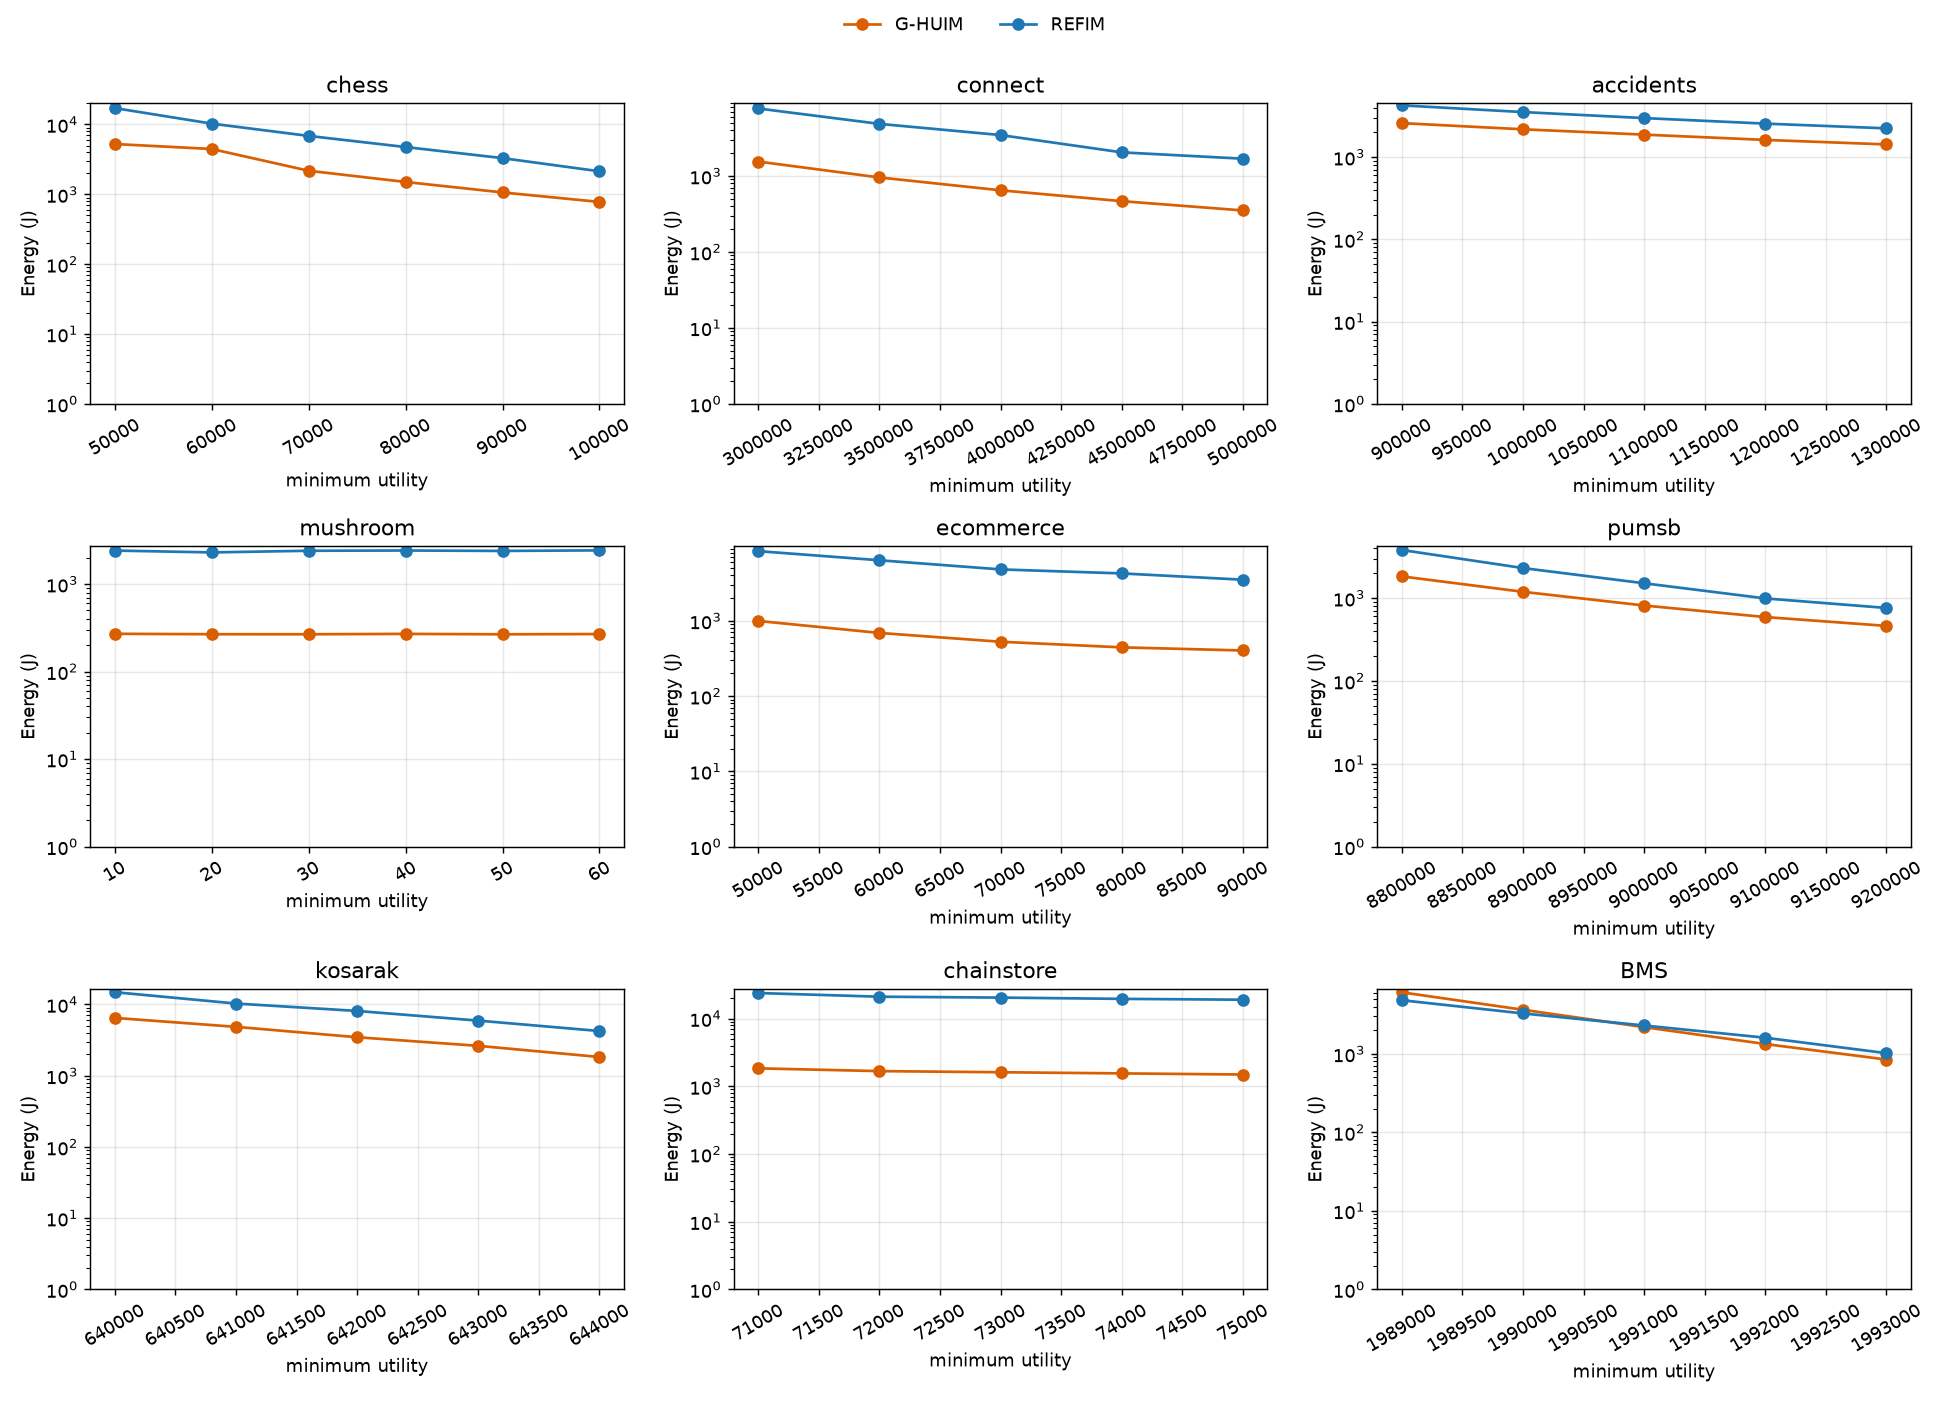
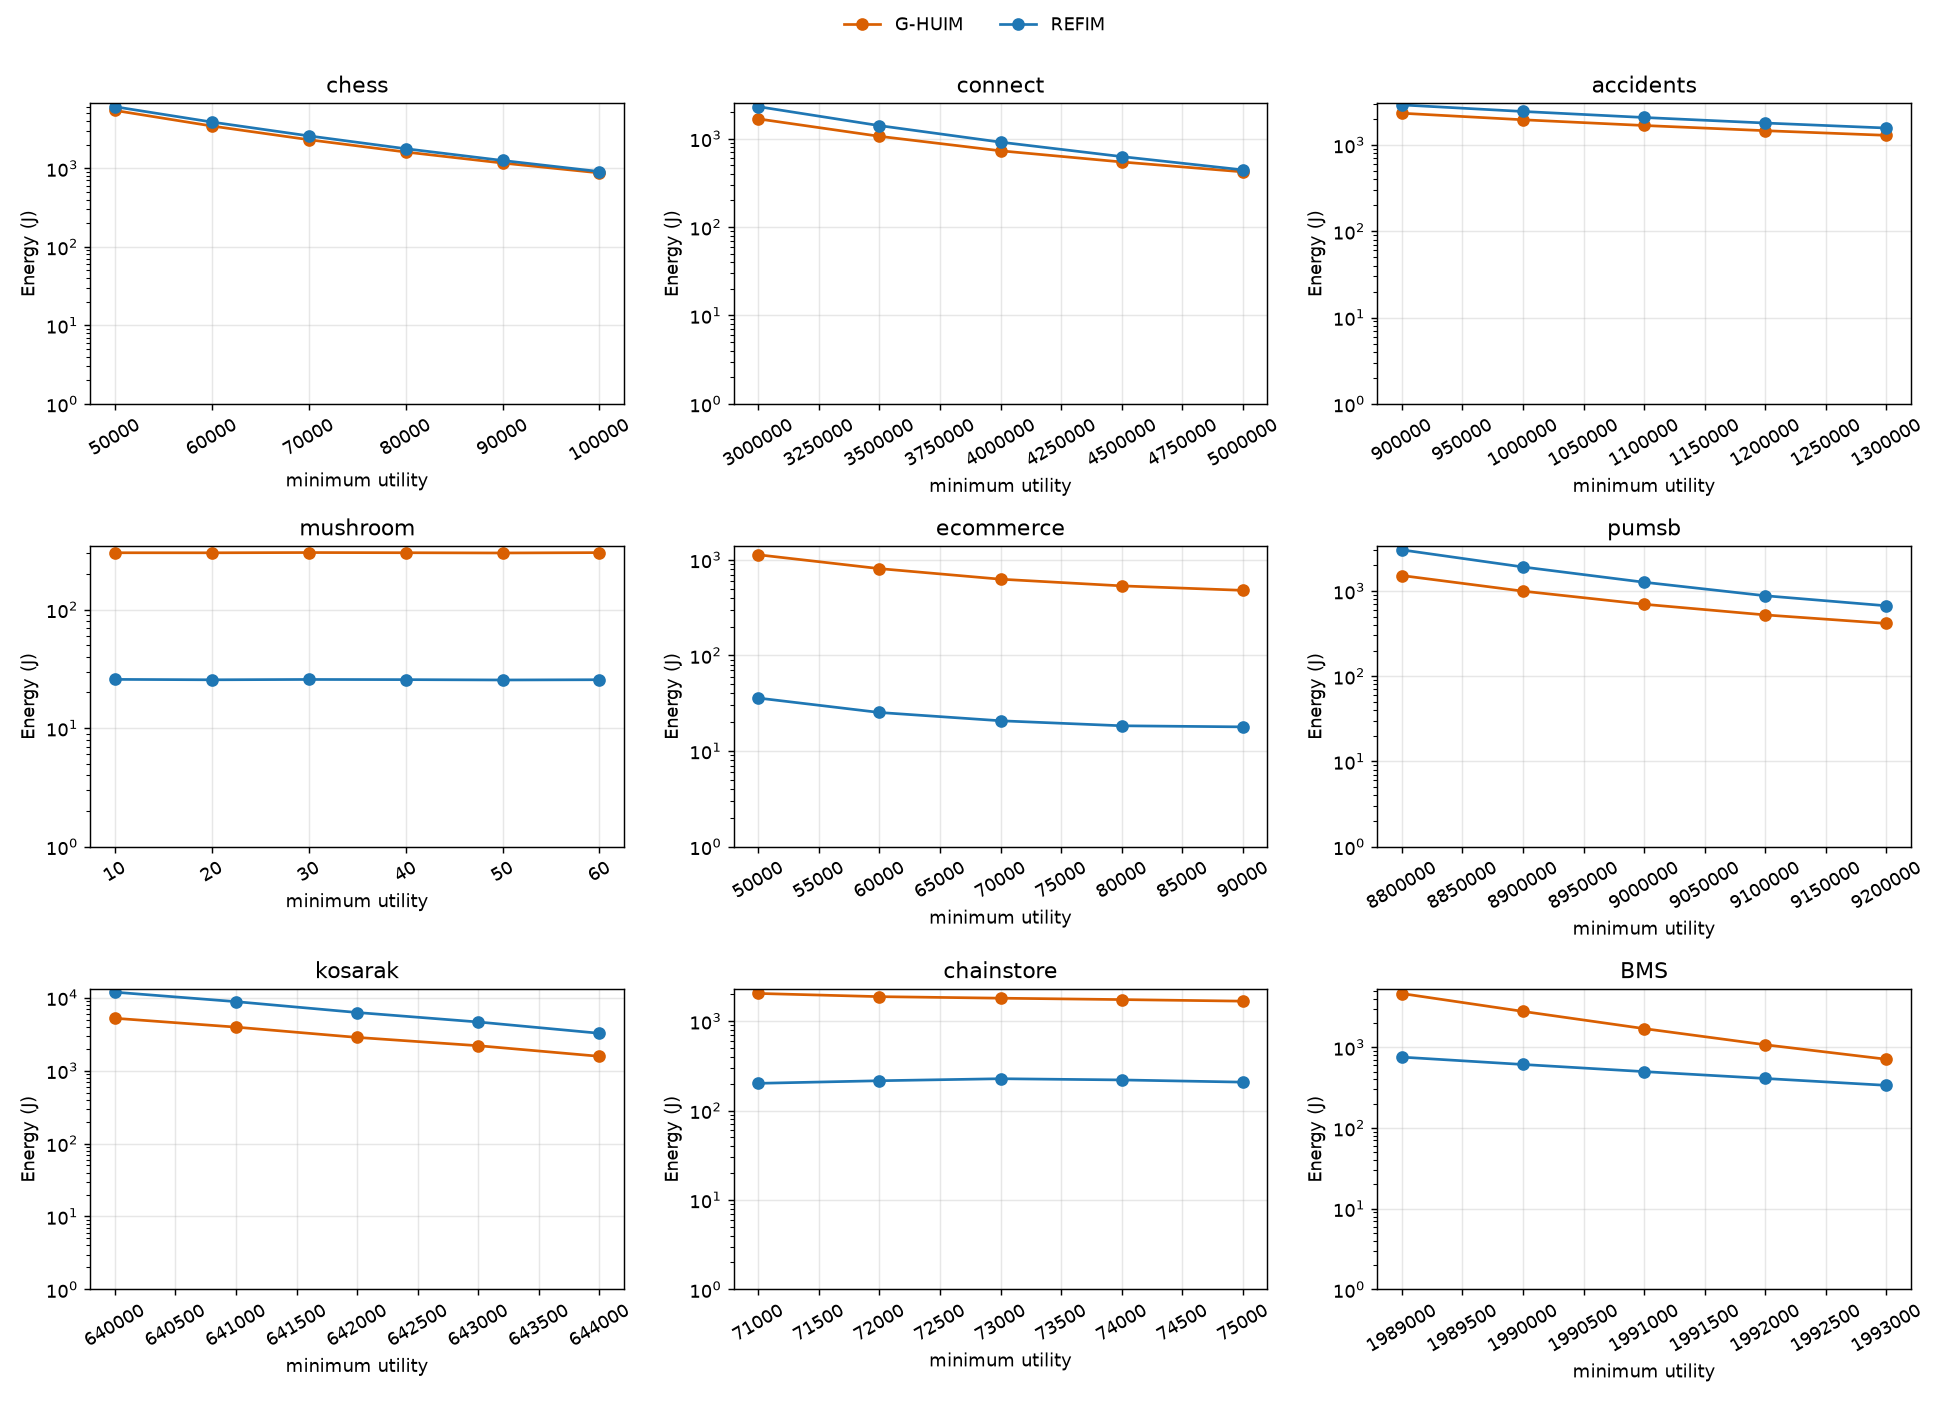
Sweep: REFIM with scalar kernels and perf counters; rerun results and plots

diff --git a/experiments/sweep.py b/experiments/sweep.py
@@ -69,7 +69,7 @@ class GpuSampler:
 
 def command(miner, data, minutil):
     if miner == "REFIM":
-        return [str(ROOT / "build/REFIM"), "-i", data, "-m", str(minutil), "-t", "0"]
+        return [str(ROOT / "build/REFIM"), "-i", data, "-m", str(minutil), "-t", "0", "-v", "scalar", "-p", "on"]
     return [str(ROOT / "build/G-HUIM"), "-i", data, "-m", str(minutil)]
 
 
